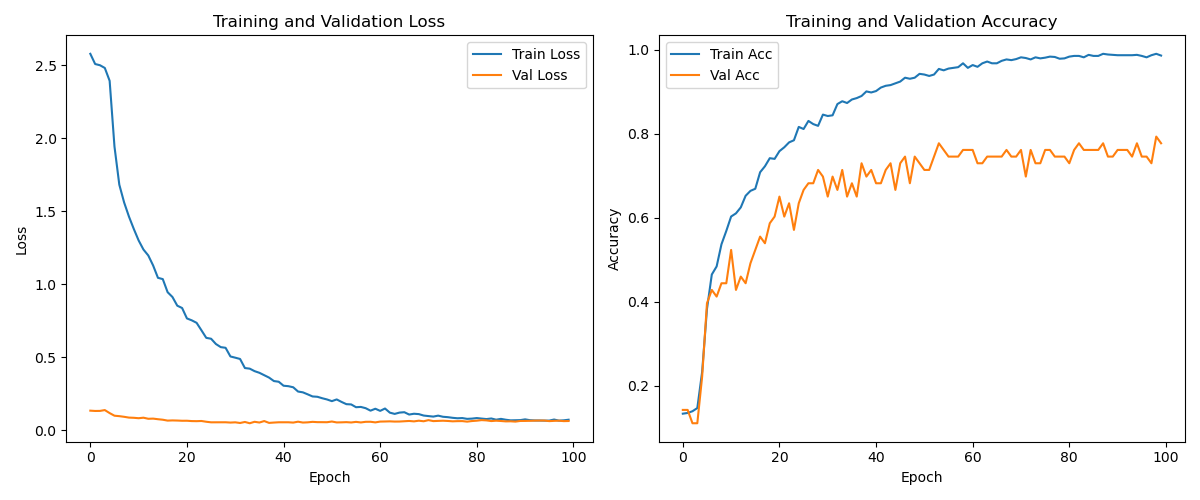
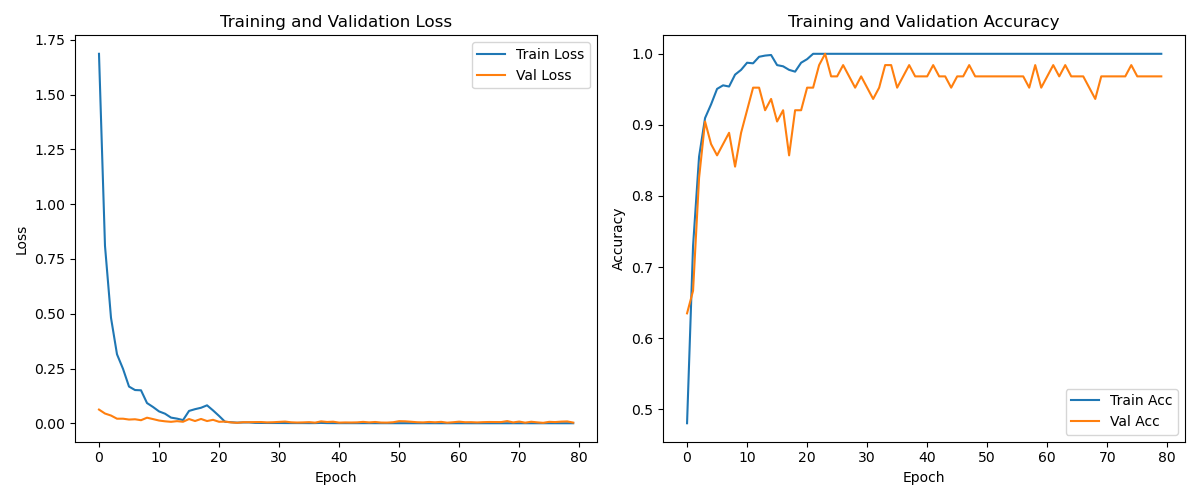
CascadeFormer 2.0 is 92.32% for penn action

diff --git a/baseline/action_recognition/cascadeformer_2_0/joint/penn_action/inference.py b/baseline/action_recognition/cascadeformer_2_0/joint/penn_action/inference.py
@@ -106,9 +106,9 @@ def main():
     # get the number of classes from the root_dir by taking the trailing number
     batch_size = args.batch_size
     device = args.device
-    hidden_size = 208
-    n_heads = 4
-    num_layers = 4
+    hidden_size = 832
+    n_heads = 8
+    num_layers = 2
     device = 'cuda' if torch.cuda.is_available() else 'cpu'
 
     print("=" * 50)
@@ -137,7 +137,7 @@ def main():
         print("************Freezing all layers")
         t1 = load_T1("action_checkpoints/Penn_pretrained.pt", d_model=hidden_size, nhead=n_heads, num_layers=num_layers, device=device)
     else:
-        t1 = load_T1("action_checkpoints/Penn_finetuned_T1.pt", d_model=hidden_size, nhead=n_heads, num_layers=num_layers, device=device)
+        t1 = load_T1("action_checkpoints/Penn_finetuned_T1.pt", d_model=hidden_size, nhead=n_heads, num_layers=num_layers, device=device, freeze=False)
         print(f"************Unfreezing layers: {unfreeze_layers}")
     
     t2 = load_T2("action_checkpoints/Penn_finetuned_T2.pt", d_model=hidden_size, nhead=n_heads, num_layers=num_layers, device=device)

diff --git a/baseline/action_recognition/cascadeformer_2_0/joint/penn_action/main.py b/baseline/action_recognition/cascadeformer_2_0/joint/penn_action/main.py
@@ -38,9 +38,9 @@ def main():
     print(f"pretrain?: {pretrain}")
 
     # transformer parameters
-    hidden_size = 208
-    n_heads = 4
-    num_layers = 4
+    hidden_size = 832
+    n_heads = 8
+    num_layers = 2
     print(f"hidden_size: {hidden_size}")
     print(f"n_heads: {n_heads}")
     print(f"num_layers: {num_layers}")

diff --git a/baseline/action_recognition/cascadeformer_1_1/joint/ntu_60_own/NTU_main.py b/baseline/action_recognition/cascadeformer_1_1/joint/ntu_60_own/NTU_main.py
@@ -44,7 +44,7 @@ def main():
     print(f"pretrain?: {pretrain}")
 
     # transformer parameters
-    hidden_size = 512   # 256 -> 512 -> 768
+    hidden_size = 768   # 256 -> 512 -> 768
     n_heads = 8
     num_layers = 8      # 4 -> 8 -> 12 -> 16
     print(f"hidden_size: {hidden_size}")

diff --git a/baseline/action_recognition/cascadeformer_1_1/joint/ntu_60_own/NTU_inference.py b/baseline/action_recognition/cascadeformer_1_1/joint/ntu_60_own/NTU_inference.py
@@ -92,7 +92,7 @@ def main():
 
     # Set the device
 
-    hidden_size = 512 # 256, 512
+    hidden_size = 768 # 256, 512, 768
     n_heads = 8
     num_layers = 8    # 4, 8, 12
     device = 'cuda' if torch.cuda.is_available() else 'cpu'

diff --git a/TUNING_LOG.md b/TUNING_LOG.md
@@ -102,6 +102,20 @@ The complete experiment tuning logs:
 | 30% | linear | 256 | 8 | 4 | no | 1e-4 | 200 | 1e-5, wd=1e-4 | 120 | **94.10%** |
 | 30% | linear | 256 | 8 | 4 | no | 1e-4 | 200 | 1e-5, wd=1e-4 | 200 | 94.01% |
 
+
+
+| masked pretraining | decoder | d_model | n_head | num_layers | freeze T1? | T1-lr | #epochs | T2-lr (ft-lr) | #epochs | clf-acc |
+|---------------|---------|-----------|----------|----------|----------|--------|----------|-------------|--------|---------|
+| <tr><td colspan="11" align="center"> CascadeFormer 2.0 (interleaving spatial-temporal attention)  </td></tr> |
+| 30% | linear | **832** | 8 | **2** | no | 1e-4 | 50 | 1e-4, wd=1e-2 | 50 | 83.15% - overfitting! |
+| 30% | linear | **832** | 8 | **2** | no | 1e-4 | 100 | 1e-4, wd=1e-2 | 70 | 91.29% |
+| 30% | linear | **832** | 8 | **2** | no | 1e-4 | 100 | 1e-4, wd=1e-2 | 80 | **92.32%** |
+| 30% | linear | **832** | 8 | **2** | no | 1e-4 | 100 | 1e-4, wd=1e-2 | 90 | 90.73% |
+| 30% | linear | **832** | 8 | **2** | no | 1e-4 | 100 | 1e-4, wd=1e-2 | 100 | 91.67% |
+| 30% | linear | **832** | 8 | **2** | no | 1e-4 | 200 | 1e-4, wd=1e-2 | 100 | 86.05% - overfitting! |
+| 30% | linear | **832** | 8 | **2** | no | 1e-4 | 200 | 1e-4, wd=1e-2 | 200 | 86.05% - overfitting! |
+
+
 ## NTU RGB+D 60
 
 batch-level padding OR fixed-length sequence
@@ -174,8 +188,10 @@ cross-subject evaluation:
 | 30%, 64+1.0 | linear | 512 | 8 | **12** | no | 1e-4 | **200** | 3e-5, wd=1e-2, CosineAnnealingLR, epoch-level | 50 | 72.67% |
 | 30%, 64+1.0 | linear | 512 | 8 | **12** | no | 1e-4 | **200** | 3e-5, wd=1e-2, CosineAnnealingLR, epoch-level | 100 | **73.22%** |
 | 30%, 64+1.0 | linear | 512 | 8 | **8** | no | 1e-4 | **100** | 3e-5, wd=1e-2, CosineAnnealingLR, epoch-level | 50 | 72.78% |
-| 30%, 64+1.0 | linear | 512 | 8 | **8** | no | 1e-4 | **100** | 3e-5, wd=1e-2, CosineAnnealingLR, epoch-level | 100 | **73.07%** |
-
+| 30%, 64+1.0 | linear | 512 | 8 | **8** | no | 1e-4 | **100** | 3e-5, wd=1e-2, CosineAnnealingLR, epoch-level | 100 | 73.07% |
+| <tr><td colspan="11" align="center"> a larger hidden size/latent space?! </td></tr> |
+| 30%, 64+1.0 | linear | **768** | 8 | **8** | no | 1e-4 | 300 | 3e-5, wd=1e-2, CosineAnnealingLR, epoch-level | 100 | **running** |
+| 30%, 64+1.0 | linear | **768** | 8 | **8** | no | 1e-4 | 300 | 3e-5, wd=1e-2, CosineAnnealingLR, epoch-level | 300 | **74.10%** |
 
 | <tr><td colspan="11" align="center"> cross-view evaluation </td></tr> |
 | no | linear | 256 | 8 | 4 | no | 1e-4 | 300 | 1e-5, wd=1e-4 | 100 | Need to run one here... |
@@ -258,9 +274,6 @@ Use SkateFormer data loader instead of my own data loader because:
 | <tr><td colspan="11" align="center"> try **MORE** repeat  </td></tr> |
 | 30%, **p=0.1**, repeat=15 | linear | 256 | 8 | 4 | no | 1e-4 | 100 | 3e-5, wd=1e-4, cosine + warmup | 50 | 85.13% |
 | 30%, **p=0.1**, repeat=15 | linear | 256 | 8 | 4 | no | 1e-4 | 100 | 3e-5, wd=1e-4, cosine + warmup | 100 | 85.99% |
-| <tr><td colspan="11" align="center"> try **NO** regularization  </td></tr> |
-| 30%, **p=0.0**, repeat=10 | linear | 256 | 8 | 4 | no | 1e-4 | 100 | 3e-5, wd=1e-4, cosine + warmup | 100 | TBD |
-
 
 ### save the best checkpoint
 

diff --git a/README.md b/README.md
@@ -4,18 +4,6 @@ Positional embeddings in T1 are **temporal** positions (encode the **frame numbe
 
 significant 🔥 efficiency boost 🔥 on NTU using ***trimmed-uniform random sampling*** adapted from SkateFormer - MUCH faster to get results!
 
-## Model scale summary
-
-| version | hidden size, layers, heads | total # parameters |
-| ------- | ------------------ | ---------------- |
-| CascadeFormer 1.1 | 256, 4, 8 | 11.0M |
-| CascadeFormer 1.1 | 256, 4, 8 | 11.3M |
-| CascadeFormer 1.2 | 256, 4, 8 | 12.6M |
-
-SoTA:
-
-![alt text](docs/reference_scale.png)
-
 ## CascadeFormer 1.0
 
 Pretraining:
@@ -43,8 +31,8 @@ Cascading Finetuning:
 corresponding model checkpoints:
 
 1. Penn Action: **94.66%** [google drive](https://drive.google.com/drive/folders/1Za50ZE9ZEKdEps_ZE-JIbatTpLuMW83k)
-2. N-UCLA: **88.79%** is not good enough
-3. NTU/CS: **75.22%** is not good enough
+2. N-UCLA: **88.79%**
+3. NTU/CS: **75.22%**
 4. NTU/CV: TBD
 
 ## CascadeFormer 1.1 (convolution enhanced)
@@ -68,7 +56,7 @@ corresponding model checkpoints:
 
 1. Penn Action: **94.10%** [google drive](https://drive.google.com/drive/folders/1qbcT8DlhNyT3HgbM3j2aEQP2rSXoEJRS)
 2. N-UCLA: **91.16%** [google drive](https://drive.google.com/drive/folders/1b0IuO_XY-Gwv4RjS6gF9gPG36uvGwhha); **90.52%** [google drive](https://drive.google.com/drive/folders/10v1zGGhziiRZdXO2mDU-db_keVmmeUNY) 
-3. NTU/CS: **73.97%** is not good enough
+3. NTU/CS: **74.10%**
 4. NTU/CV: TBD
 
 ## CascadeFormer 1.2 (spatial-transformer enhanced)
@@ -131,14 +119,14 @@ Cascading Finetuning:
 
 | dataset | #videos | #actions | dimension | #joints | outperform SoTA? |
 | ------- | ------- | -------- | --------- | ---------- | ------- |
-| Penn Action | 2,326 | 15 | 2D | 13 | 93.4% (HDM-BG) |
+| Penn Action | 2,326 | 15 | 2D | 13 | **92.32%** = 93.4% (HDM-BG) |
 | N-UCLA | 1,494 | 12 | 3D | 20 | 98.3% (SkateFormer) |
 | NTU/CS | 56,880 | 60 | 3D | 25 | 92.6% (SkateFormer) |
 | NTU/CV | 56,880 | 60 | 3D | 25 | 92.6% (SkateFormer) |
 
 corresponding model checkpoints:
 
-1. Penn Action: 74.34% (overfitting!)
+1. Penn Action: **92.32%** [google drive](https://drive.google.com/drive/folders/1cYQMhedWKBm93L9RWSEAj2HYGhdlucKl)
 2. N-UCLA: TBD
 3. NTU/CS: TBD
 4. NTU/CV: TBD
